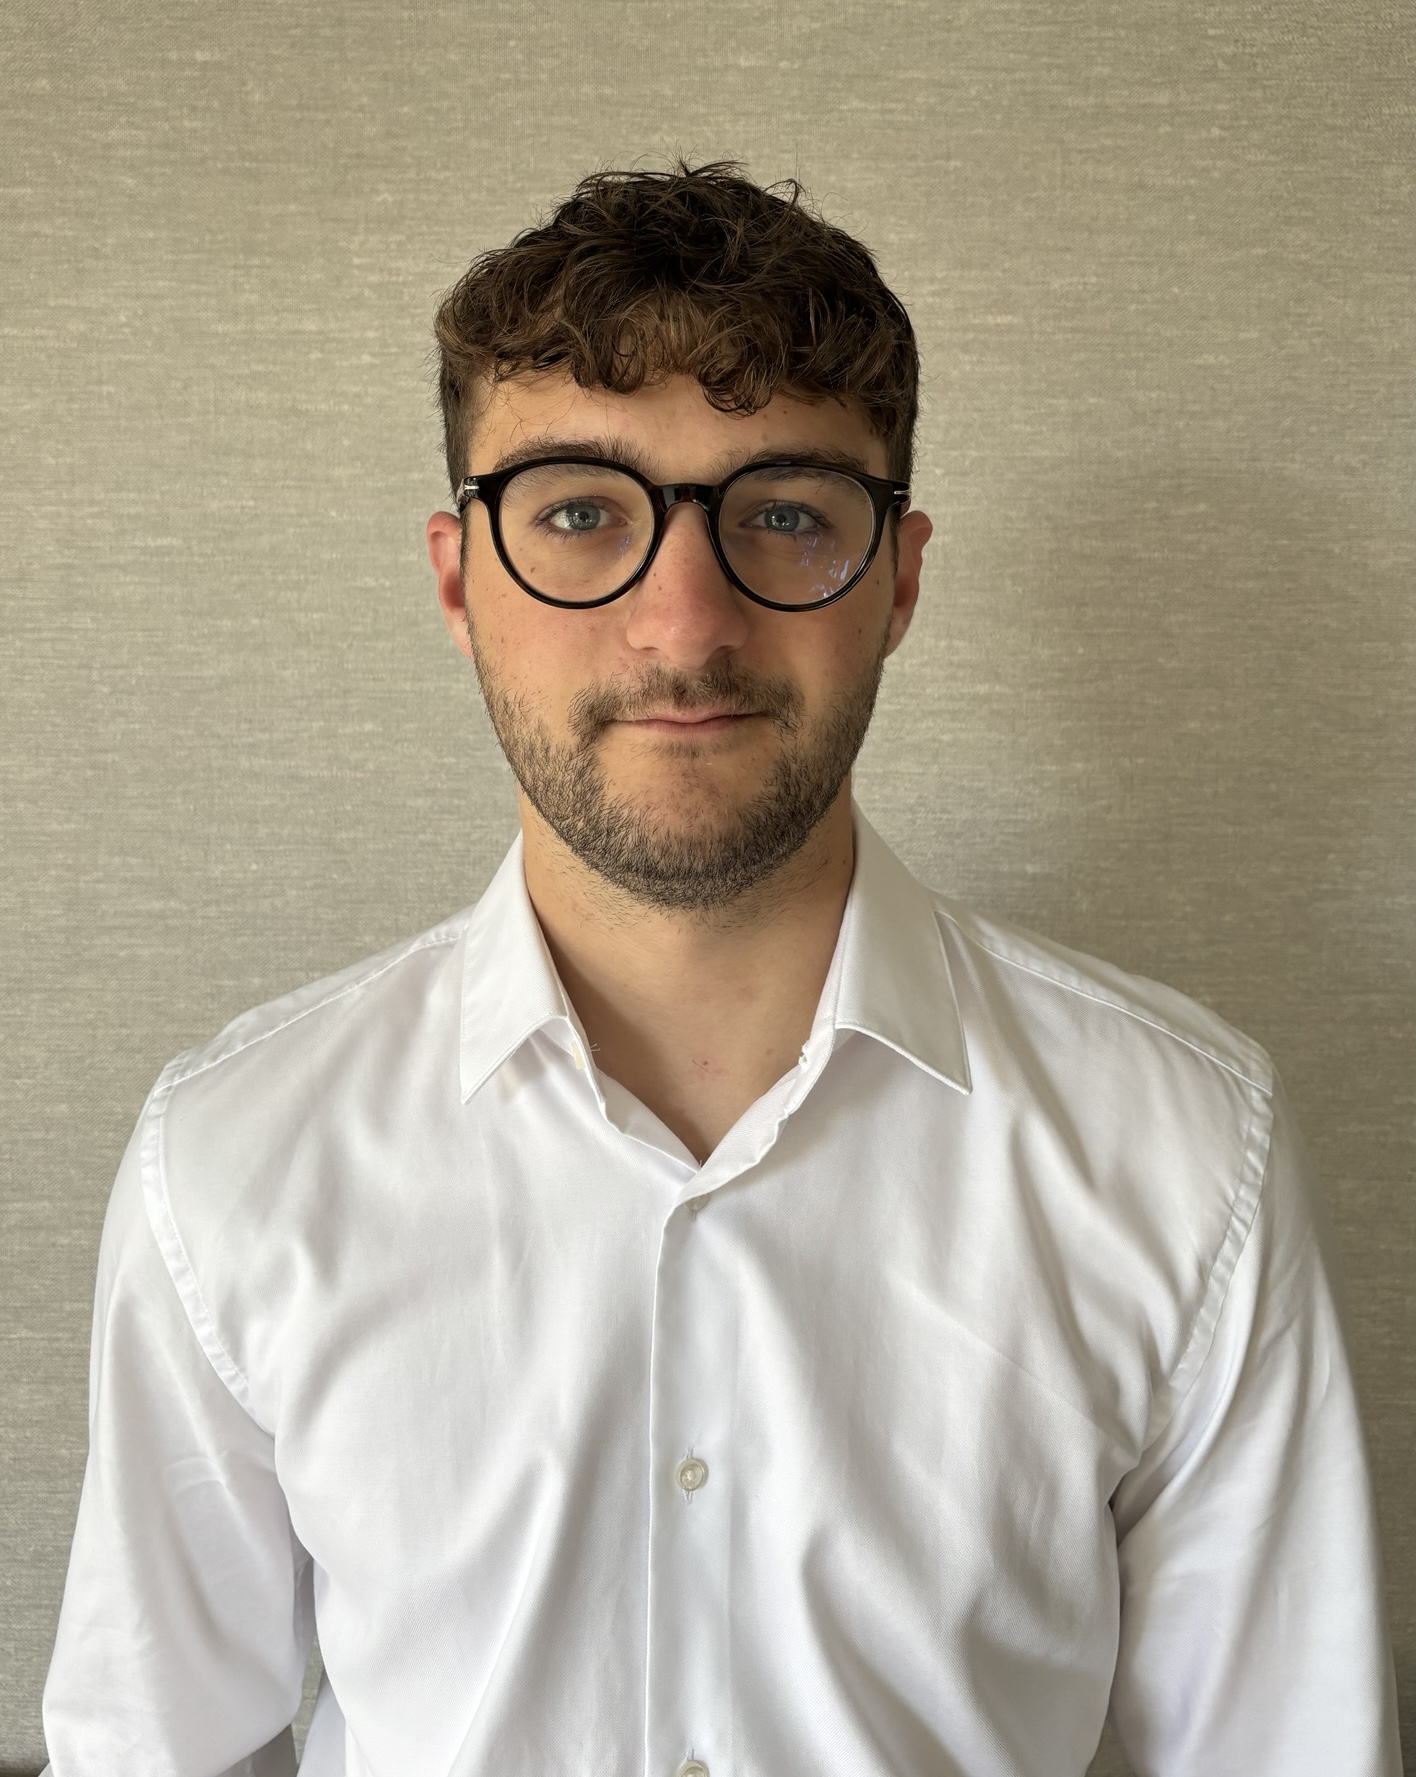
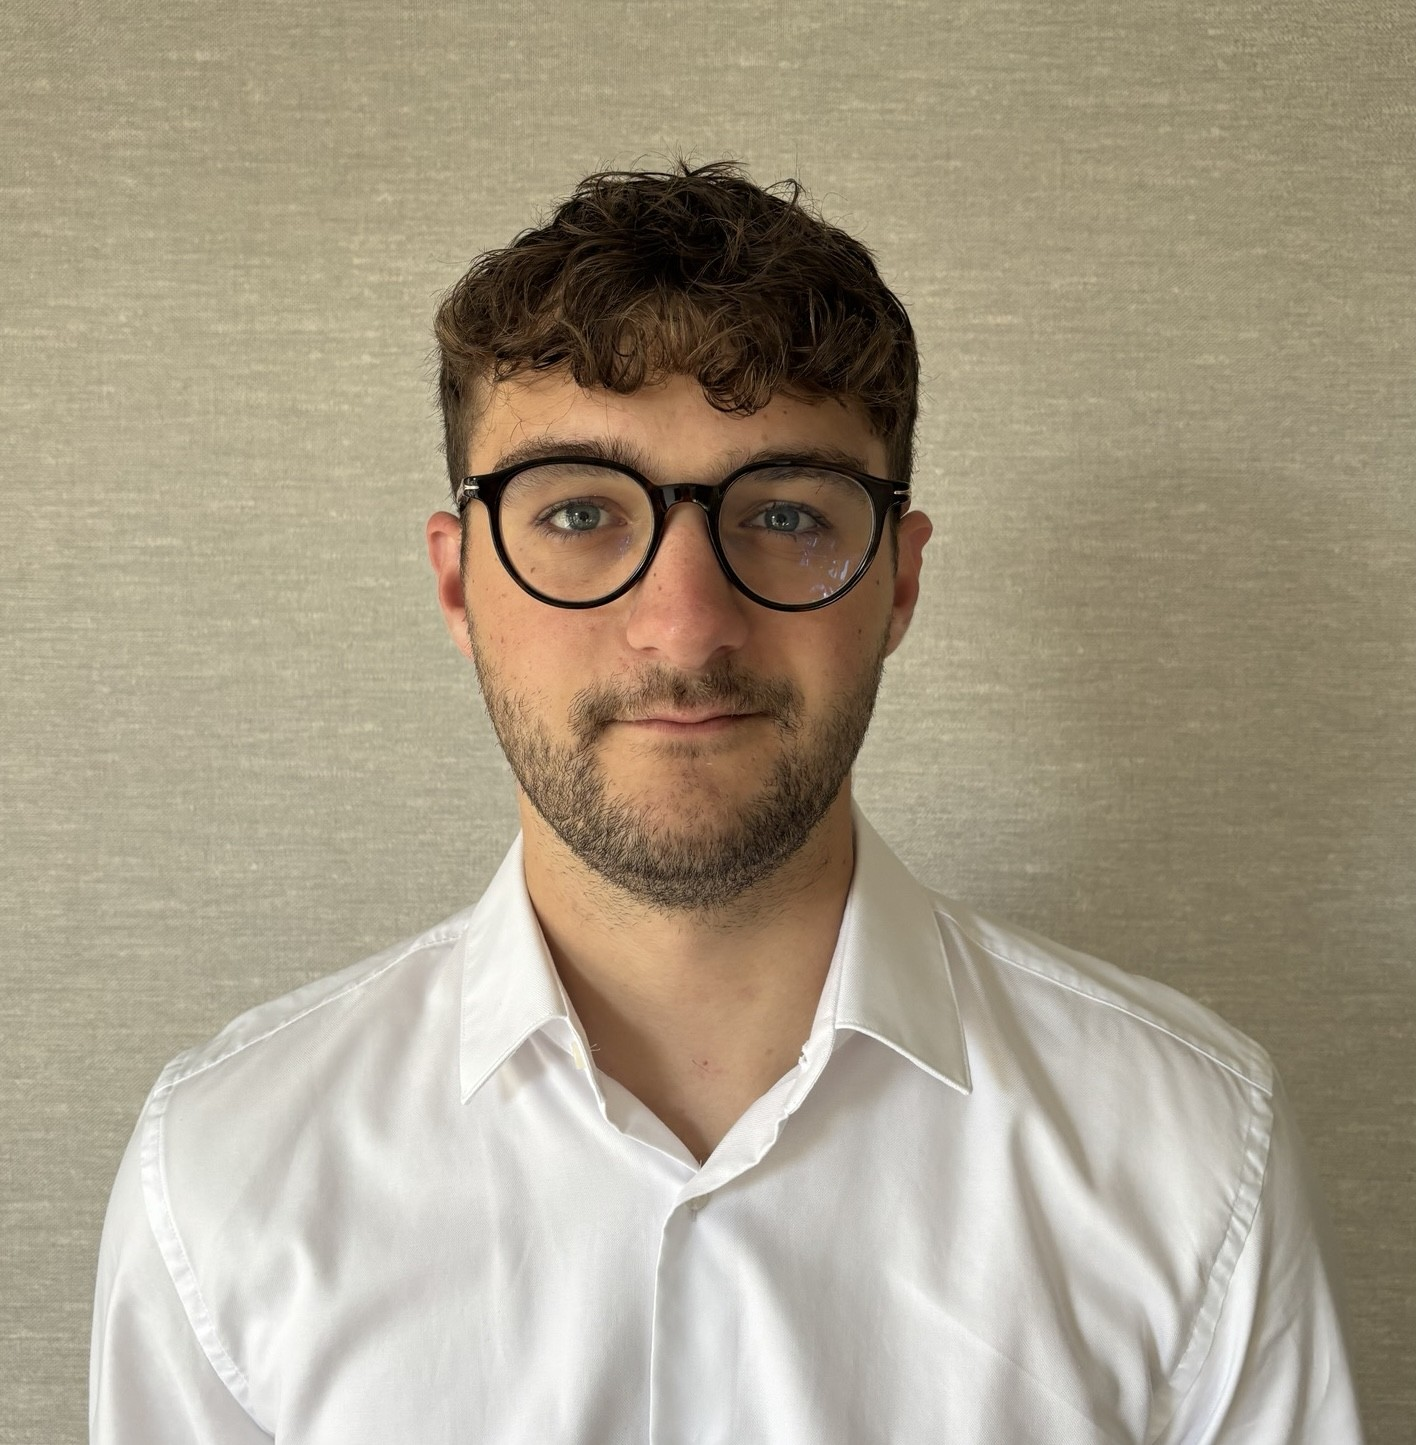
about me edits

diff --git a/_site/assets/css/main.css b/_site/assets/css/main.css
@@ -1,1 +1,1 @@
-@import url("https://fonts.googleapis.com/css2?family=Montserrat:wght@400;700&family=Merriweather:wght@400;700&display=swap");.navbar,h1,h2,h3,h4,h5,h6{font-family:'Merriweather', serif;font-weight:700}h1{margin-bottom:25px}body{font-family:"Open Sans", 'Montserrat', 'Helvetica Neue' sans-serif;line-height:1.6;background-color:#f7f8fa;color:#333;margin:0;padding:0}header,footer{padding:10px 5px;background:#3a3f58;color:#f7f8fa}header{margin-bottom:40px}footer{text-align:center;margin-top:40px;font-size:0.9em}.container{max-width:800px}.project-item img{max-width:100%;height:auto;border-radius:8px}.project-item h3{margin-top:15px;font-size:1.25em}.btn{display:inline-block;padding:10px 20px;color:#f7f8fa;text-decoration:none;border-radius:5px;transition:background 0.3s}.highlight{background-color:#2d2d2d;color:#e0e0e0;padding:10px 0;margin-bottom:10px;border-radius:5px;overflow-x:auto}.highlight .k{color:#c792ea}.highlight .nb{color:#82aaff}.highlight .s{color:#c3e88d}.highlight .mi{color:#f78c6c}.highlight .c{color:#5c6370}.highlight .p{color:#89ddff}.highlight .o{color:#ff5370}.profile-image{float:left;margin:20px 25px 25px 0;width:150px;vertical-align:top}.project-image{float:left;margin:20px 25px 25px 0;max-width:200px;vertical-align:top}.inline-image,.inline-image-l,.inline-image-r{max-width:350px;margin:0px 25px 15px 25px;vertical-align:top}.inline-image-l{float:left;margin-left:0}.inline-image-r{float:right;margin-right:0}.profile-image,.project-image{border-radius:8px;box-shadow:0 4px 8px rgba(0,0,0,0.1)}.gallery-container{display:flex;justify-content:center;margin:auto}.project-gallery{display:grid;grid-template-columns:repeat(auto-fit, minmax(150px, 1fr));gap:20px;padding:20px;margin:0 auto;max-width:100%}.gallery-item{overflow:hidden;text-align:center;transition:transform 0.3s ease;max-width:250px;max-height:300px}.gallery-item img{width:100%;height:85%;display:block;object-fit:cover;object-position:center;border-radius:8px;box-shadow:0 4px 8px rgba(0,0,0,0.1)}.gallery-item p{margin:13px 0;font-size:.9rem;color:#333}.gallery-item a{text-decoration:none}.gallery-item:hover{transform:scale(1.05)}.project-image{border-radius:8px;box-shadow:0 4px 8px rgba(0,0,0,0.1)}.back-arrow{display:inline-block;font-size:1.1em;color:#686d85;text-decoration:none;margin-bottom:1em;font-weight:bold;transition:color 0.3s ease, transform 0.3s ease}.back-arrow:hover{color:#3a3f58;transform:translateX(-4px)}p{margin-bottom:15px;margin-top:2px}.project-image{max-width:100%;height:auto;object-fit:contain;display:block;margin:0 auto}
+@import url("https://fonts.googleapis.com/css2?family=Montserrat:wght@400;700&family=Merriweather:wght@400;700&display=swap");.navbar,h1,h2,h3,h4,h5,h6{font-family:'Merriweather', serif;font-weight:700}h1{margin-bottom:25px}body{font-family:"Open Sans", 'Montserrat', 'Helvetica Neue' sans-serif;line-height:1.6;background-color:#f7f8fa;color:#333;margin:0;padding:0}header,footer{padding:10px 5px;background:#3a3f58;color:#f7f8fa}header{margin-bottom:40px}footer{text-align:center;margin-top:40px;font-size:0.9em}.container{max-width:800px}.project-item img{max-width:100%;height:auto;border-radius:8px}.project-item h3{margin-top:15px;font-size:1.25em}.btn{display:inline-block;padding:10px 20px;color:#f7f8fa;text-decoration:none;border-radius:5px;transition:background 0.3s}.highlight{background-color:#2d2d2d;color:#e0e0e0;padding:10px 0;margin-bottom:10px;border-radius:5px;overflow-x:auto}.highlight .k{color:#c792ea}.highlight .nb{color:#82aaff}.highlight .s{color:#c3e88d}.highlight .mi{color:#f78c6c}.highlight .c{color:#5c6370}.highlight .p{color:#89ddff}.highlight .o{color:#ff5370}.profile-image{float:left;margin:20px 25px 25px 0;width:180px;vertical-align:top}.project-image{float:left;margin:20px 25px 25px 0;max-width:200px;vertical-align:top}.inline-image,.inline-image-l,.inline-image-r{max-width:350px;margin:0px 25px 15px 25px;vertical-align:top}.inline-image-l{float:left;margin-left:0}.inline-image-r{float:right;margin-right:0}.profile-image,.project-image{border-radius:8px;box-shadow:0 4px 8px rgba(0,0,0,0.1)}.gallery-container{display:flex;justify-content:center;margin:auto}.project-gallery{display:grid;grid-template-columns:repeat(auto-fit, minmax(150px, 1fr));gap:20px;padding:20px;margin:0 auto;max-width:100%}.gallery-item{overflow:hidden;text-align:center;transition:transform 0.3s ease;max-width:250px;max-height:300px}.gallery-item img{width:100%;height:85%;display:block;object-fit:cover;object-position:center;border-radius:8px;box-shadow:0 4px 8px rgba(0,0,0,0.1)}.gallery-item p{margin:13px 0;font-size:.9rem;color:#333}.gallery-item a{text-decoration:none}.gallery-item:hover{transform:scale(1.05)}.project-image{border-radius:8px;box-shadow:0 4px 8px rgba(0,0,0,0.1)}.back-arrow{display:inline-block;font-size:1.1em;color:#686d85;text-decoration:none;margin-bottom:1em;font-weight:bold;transition:color 0.3s ease, transform 0.3s ease}.back-arrow:hover{color:#3a3f58;transform:translateX(-4px)}p{margin-bottom:15px;margin-top:2px}.project-image{max-width:100%;height:auto;object-fit:contain;display:block;margin:0 auto}

diff --git a/_site/index.html b/_site/index.html
@@ -50,9 +50,11 @@
 
 <p><img src="/assets/images/Profile_Picture.jpg" alt="Profile Picture" class="profile-image" /></p>
 
-<p>I’m an MEng Mechanical Engineering student at the University of Edinburgh — awarded the First Year Class Medal for top performance in my cohort — currently on exchange at Cornell University with a 3.78 GPA, and predicted to graduate with First-Class honours in 2028. My interests centre on sustainable design, structural analysis, and product development, with hands-on experience in ANSYS, Python, and Fusion 360.</p>
+<p>I’m an MEng Mechanical Engineering student at the University of Edinburgh, awarded the First Year Class Medal for top performance in my cohort. I recently completed an exchange year at Cornell University (GPA 3.96), and I’m on track to graduate with First-Class honours in 2028.</p>
 
-<p>Most recently I led my team to 1st place at the BUiD Sustainability Spring School in Dubai, developing an innovative lighting solution with engineers and architects from across the world.</p>
+<p>I’m drawn to sustainable design, engineering analysis, and product development. I like turning early-stage ideas into things that actually work, using software like ANSYS Mechanical, ANSYS Fluent, Python, and Fusion 360 to analyse, simulate, and refine designs before they’re built.</p>
+
+<p>In spring 2025, I led my team to 1st place at the BUiD Sustainability Spring School in Dubai, developing a lighting solution with engineers and architects from around the world.</p>
 
 <p>Take a look at <a href="/projects/">my projects</a> and <a href="/cv/">CV</a>.</p>
 

diff --git a/_sass/custom.scss b/_sass/custom.scss
@@ -97,7 +97,7 @@ footer {
 .profile-image {
   float: left;
   margin: 20px 25px 25px 0;
-  width: 150px;
+  width: 180px;
   vertical-align: top;
 }
 

diff --git a/index.md b/index.md
@@ -6,10 +6,11 @@ title: Charlie Pearson
 ## About Me
 
 ![Profile Picture]({{ "assets/images/Profile_Picture.jpg" | relative_url }}){: class="profile-image"}
- 
-I'm an MEng Mechanical Engineering student at the University of Edinburgh — awarded the First Year Class Medal for top performance in my cohort — currently on exchange at Cornell University with a 3.78 GPA, and predicted to graduate with First-Class honours in 2028. My interests centre on sustainable design, structural analysis, and product development, with hands-on experience in ANSYS, Python, and Fusion 360.
 
+I'm an MEng Mechanical Engineering student at the University of Edinburgh, awarded the First Year Class Medal for top performance in my cohort. I recently completed an exchange year at Cornell University (GPA 3.96), and I'm on track to graduate with First-Class honours in 2028.
 
-Most recently I led my team to 1st place at the BUiD Sustainability Spring School in Dubai, developing an innovative lighting solution with engineers and architects from across the world.
+I'm drawn to sustainable design, engineering analysis, and product development. I like turning early-stage ideas into things that actually work, using software like ANSYS Mechanical, ANSYS Fluent, Python, and Fusion 360 to analyse, simulate, and refine designs before they're built.
+
+In spring 2025, I led my team to 1st place at the BUiD Sustainability Spring School in Dubai, developing a lighting solution with engineers and architects from around the world.
 
 Take a look at [my projects](/projects/) and [CV](/cv/).
